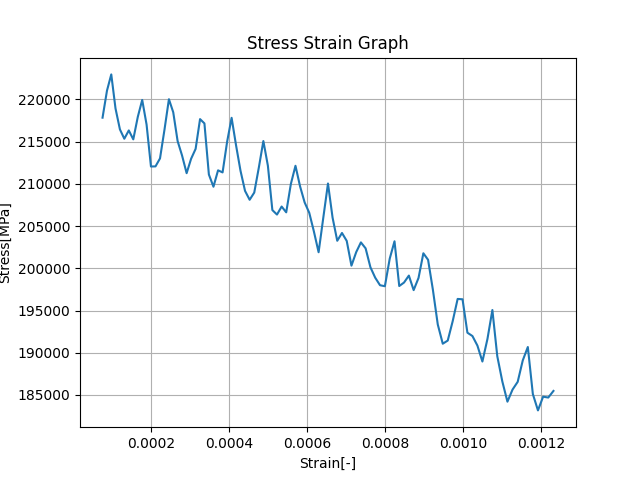
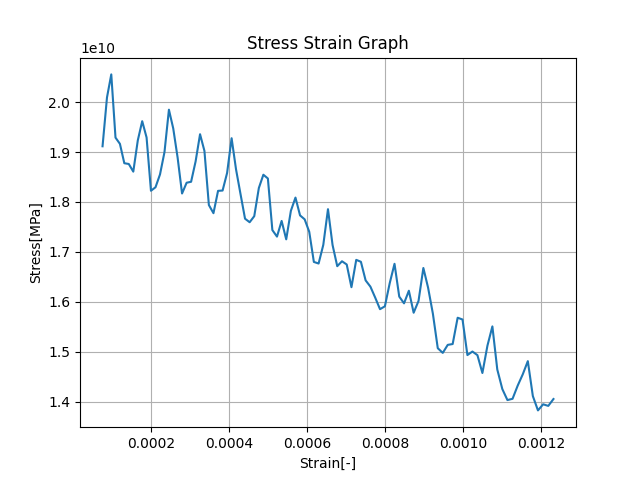
NewStiffnesses

diff --git a/mainV2.py b/mainV2.py
@@ -1,6 +1,7 @@
 from InputFunctionForCsv import read_csv_file
 from MakeGraphFromLists import plot_graph, bplot_graph
 from scipy import stats, interpolate
+from scipy.stats import linregress
 import scipy
 import numpy as np
 import matplotlib.pyplot as plt
@@ -43,8 +44,8 @@ for k in range(len(strain)):
 
 #bplot_graph(strain, stress, file)
 
-print('First value of strain list')
-print(strain[1])
+#print('First value of strain list')
+#print(strain[1])
 
 #DEFINITIONS
 def calculate_ult_tens(stress):
@@ -96,11 +97,28 @@ def stiffness_calc(strain, stress):
       break
   for i in range(len(lstrain)-1):
     dx = lstrain[i+1]-lstrain[i]
-    dy = stress[i+1]-stress[i]
+    dy = (stress[i+1]-stress[i])/dx
     dx_lst.append(dx)
     dy_lst.append(dy)
   dy_lst.append(lstrain[-1]-lstrain[-2])
   bplot_graph(lstrain[15:-1], dy_lst[15:-1], 'Derivatives2')
+
+
+def test_stiff(strain, stress):
+  strain = np.array(strain)
+  stress = np.array(stress)
+  linear_stress_mask = stress < 3*10**7
+  linear_stress = stress[linear_stress_mask]
+  linear_strain = strain[linear_stress_mask]
+  linear_reg_out = linregress(linear_strain, linear_stress)
+  E_mod = linear_reg_out[0]
+  plt.plot(linear_strain, linear_stress)
+  plt.xlabel('Strain[-]')
+  plt.ylabel('Stress[MPa]')
+  plt.title('Stress Strain Graph')
+  plt.grid(True)
+  plt.savefig('Linear' +'.png')
+  print(E_mod/10**9)
 
 def calculate_toughness(strain, stress):
   strain = np.array(strain)
@@ -111,7 +129,12 @@ def calculate_toughness(strain, stress):
   return area
 
 
-stiffness_calc(strain, stress)
+#for i in range(len(stress)):
+#  if stress[i]>3*10**7:
+#    print((stress[i]/strain[i])/10**9)
+#    break
+test_stiff(strain,stress)
+#stiffness_calc(strain, stress)
 #TESTING DEFINITIONS
 #tensile_ultimate = calculate_ult_tens(stress)
 #print("Ultimate tensile strength is", tensile_ultimate, "N per meter squared")

diff --git a/MakeGraphFromLists.py b/MakeGraphFromLists.py
@@ -27,7 +27,7 @@ def bplot_graph(list1, list2, name):
         return
 
     # Create the graph
-    plt.plot(list1, list2)
+    plt.plot(list1, list2,'o')
     plt.xlabel('Strain[-]')
     plt.ylabel('Stress[MPa]')
     plt.title('Stress Strain Graph')
